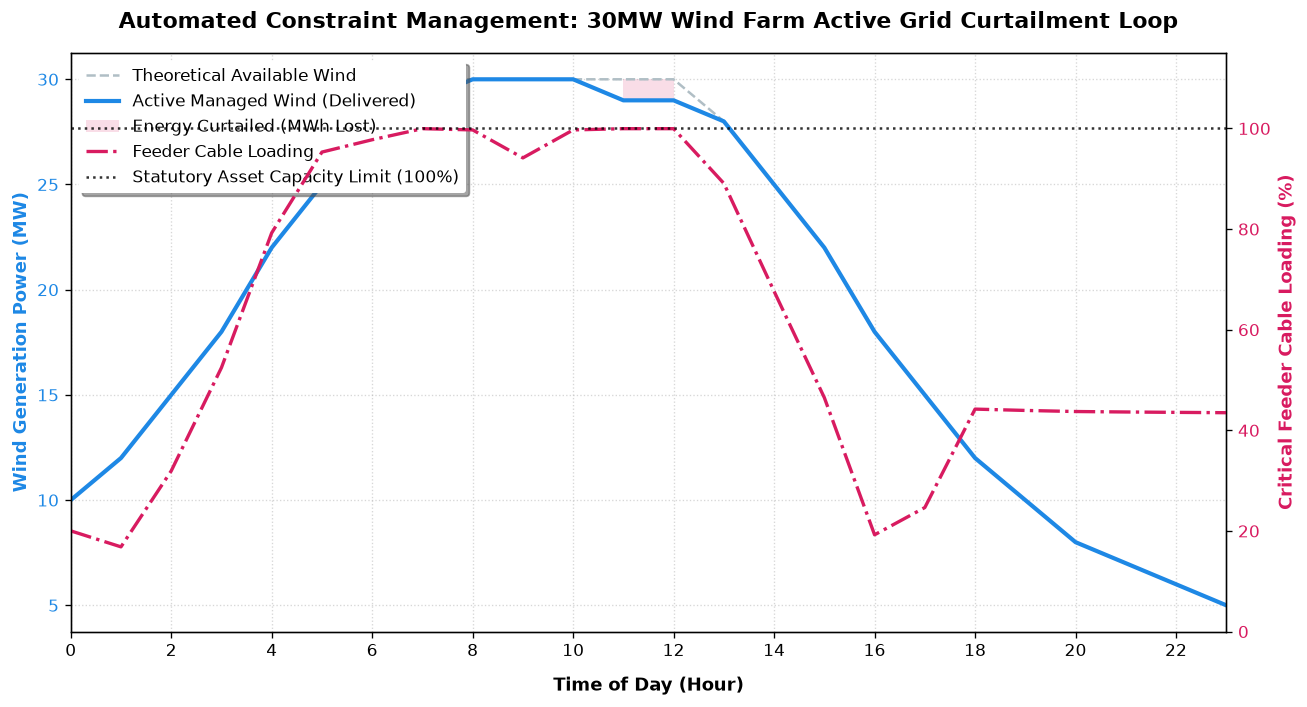
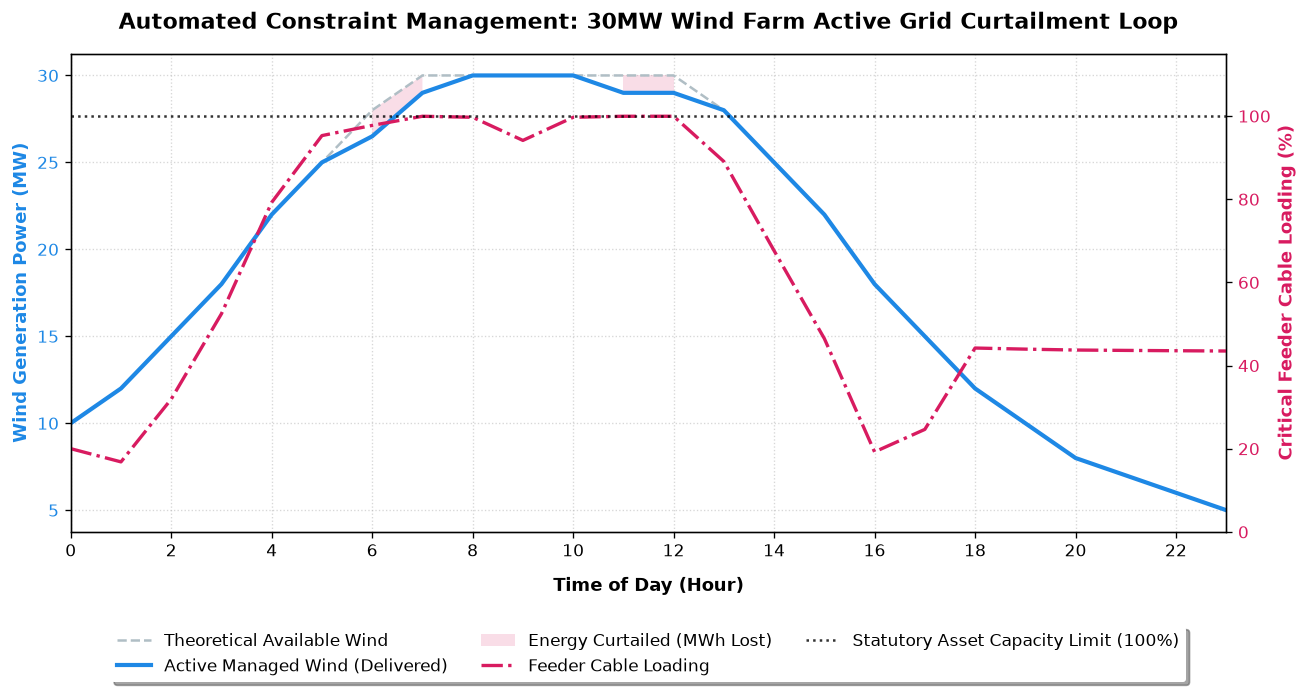
update grid model to include curtailment and plot results

diff --git a/src/visualize_results.py b/src/visualize_results.py
@@ -89,10 +89,14 @@ ax2.set_ylim(0, 115)
 # Combine legends from both axes into a single box
 lines1, labels1 = ax1.get_legend_handles_labels()
 lines2, labels2 = ax2.get_legend_handles_labels()
+
+# Place the legend horizontally below the X-axis to keep the plot area completely clear
 ax1.legend(
     lines1 + lines2,
     labels1 + labels2,
-    loc="upper left",
+    loc="upper center",
+    bbox_to_anchor=(0.5, -0.18),  # Shifted down below the X-axis label
+    ncol=3,  # Arranged in 3 clean horizontal columns
     frameon=True,
     facecolor="white",
     edgecolor="none",
@@ -105,9 +109,11 @@ plt.title(
     fontweight="bold",
     pad=15,
 )
+
+# Tight layout is critical to prevent overlapping text with the relocated legend
 fig.tight_layout()
 
-# Save the plot directly to the directory so you can link it into your README.md file
+# Save the plot directly to the directory
 plt.savefig("network_curtailment_plot.png", bbox_inches="tight")
 print(
     "\nSuccess: Saved analytical chart to root folder as 'network_curtailment_plot.png'"